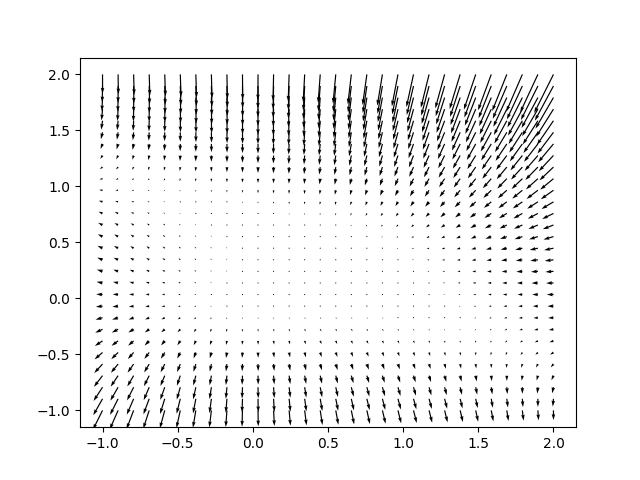
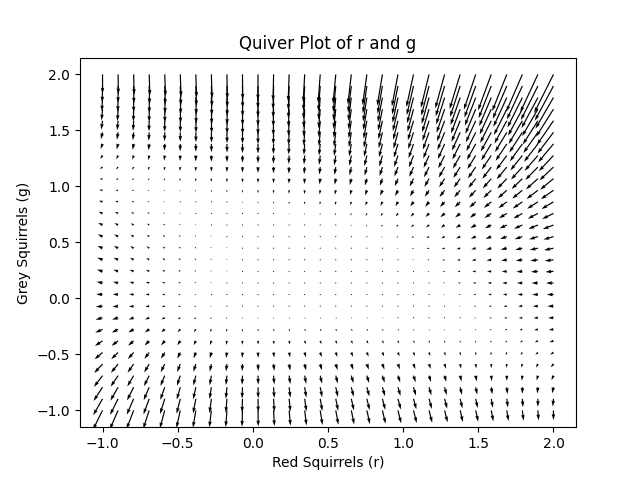
Title for quiver plot

Changed region(s): [[0.375, 0.0625, 0.6562, 0.125], [0.0312, 0.375, 0.0625, 0.625], [0.4062, 0.9375, 0.5938, 1.0]]

diff --git a/Quiver.py b/Quiver.py
@@ -8,4 +8,7 @@ F = r * (1 - r - g)
 H = g * (2 - r - (3 * g))
 fig, ax = plt.subplots()
 ax.quiver(r, g, F, H)
+plt.xlabel("Red Squirrels (r)")
+plt.ylabel("Grey Squirrels (g)")
+plt.title("Quiver Plot of r and g")
 plt.savefig("./Quiver.png")
